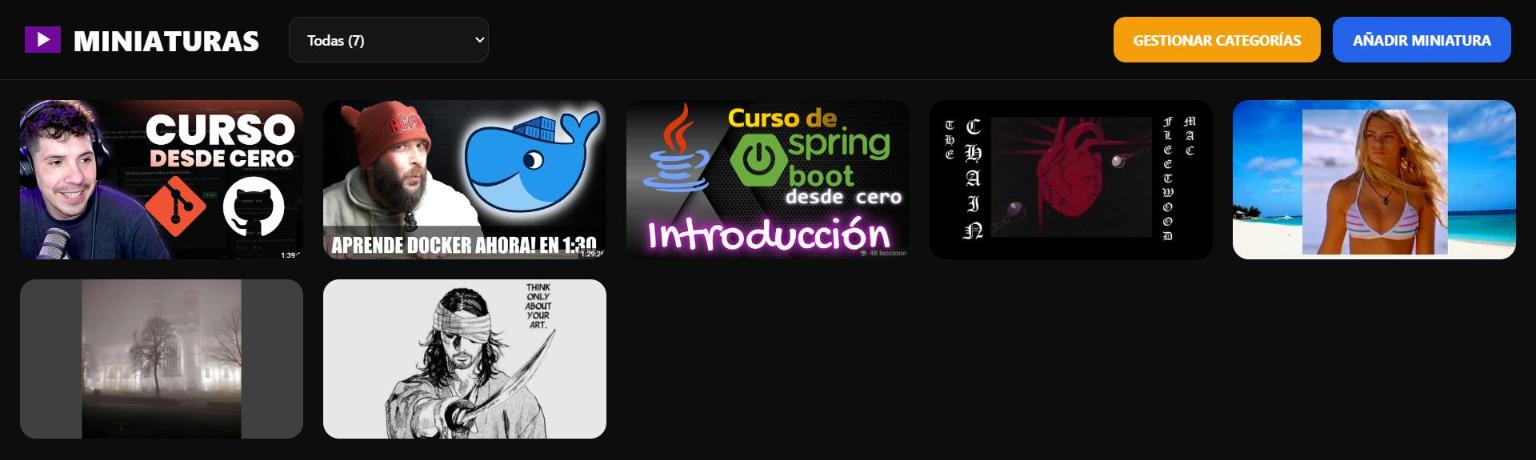
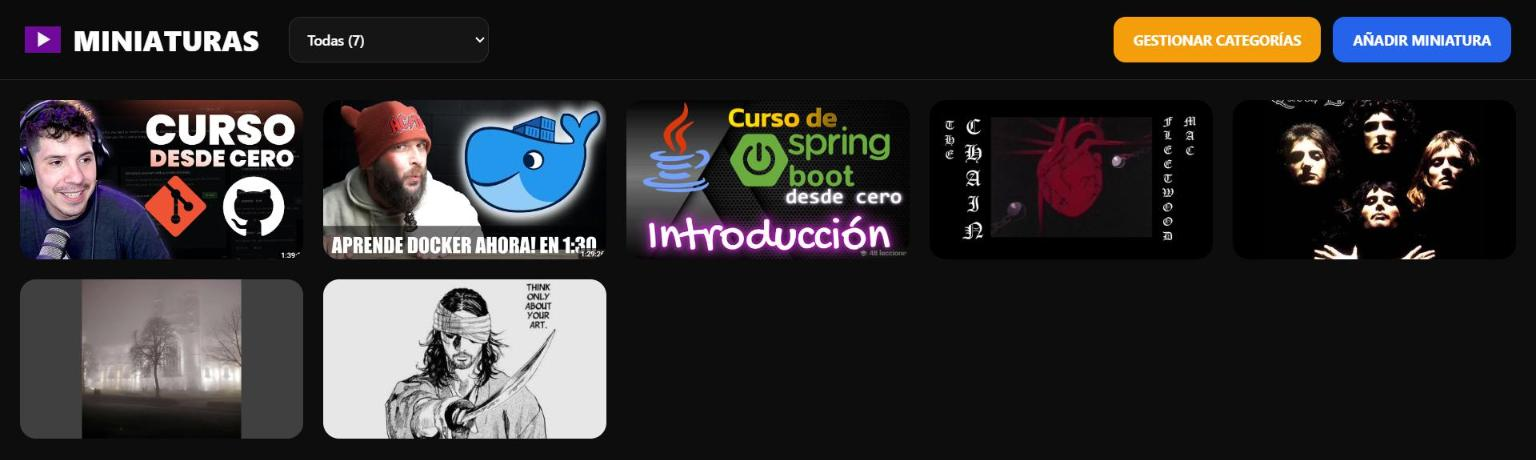
Cambiar un vídeo de ejemplo por uno más neutro
- El ejemplo 5 pasa a ser el videoclip oficial de Bohemian Rhapsody (Queen)
- Captura principal del README actualizada

Changed region(s): [[0.7812, 0.213, 1.0, 0.5783]]

diff --git a/backend/src/datos/demo.datos.js b/backend/src/datos/demo.datos.js
@@ -11,7 +11,7 @@ export const MINIATURAS_DEMO = [
   { id: 2, url: "https://youtu.be/4Dko5W96WHg", imagen: "2.png", categoriaId: 1 },
   { id: 3, url: "https://www.youtube.com/watch?v=5M39KMhVOWA", imagen: "3.png", categoriaId: 1 },
   { id: 4, url: "https://youtu.be/qBRIXmbjXRY", imagen: "4.jpg", categoriaId: 2 },
-  { id: 5, url: "https://youtu.be/jx1Kayozyhg", imagen: "5.jpg", categoriaId: 2 },
+  { id: 5, url: "https://www.youtube.com/watch?v=fJ9rUzIMcZQ", imagen: "5.jpg", categoriaId: 2 },
   { id: 6, url: "https://youtu.be/WLI3aTH9awQ", imagen: "6.jpg", categoriaId: 2 },
   { id: 7, url: "https://youtu.be/Uy1XHMEkKGA", imagen: "7.jpg", categoriaId: 2 },
 ];
